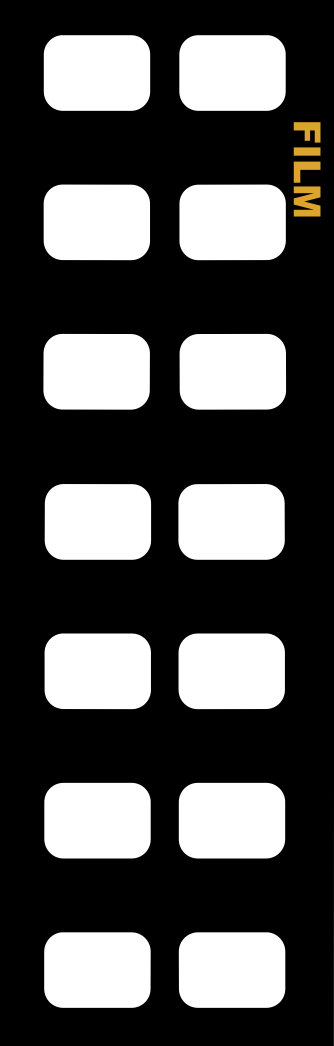
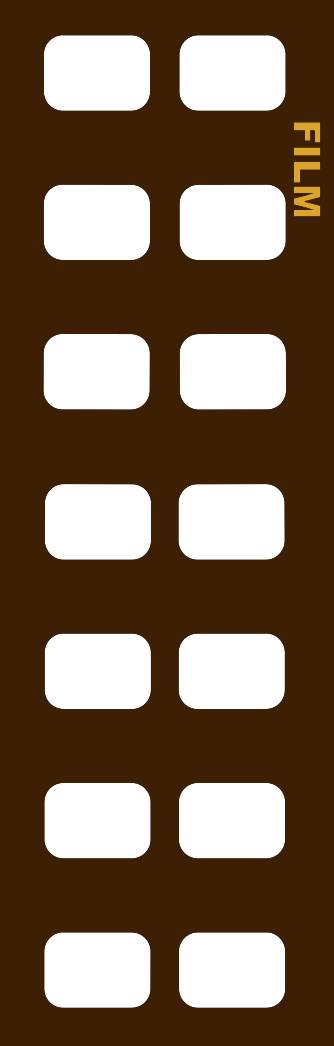
Changed some colours

diff --git a/rehash.html b/rehash.html
@@ -14,6 +14,7 @@
 	<div id="ig-root"></div>
   <div class="container">
     <h1>What story do you have to tell?</h1>
+    <h2>Enter your Instagram User names with no "@" symbol and spaces between."</h2>
     {{> signup}}
   </div>
 </body>
@@ -32,7 +33,7 @@
   <div class="" id="results">
     <h2>{{usernames}}</h2>
     
-    <div class="col-sm-8 col-sm-offset-2" id="film">
+    <div class="col-xs-8 col-xs-offset-2" id="film">
       {{#each images}}
         <div class='InstFrame'>  
           <img class="img-responsive img-rounded" src="{{url}}"/>
@@ -45,7 +46,7 @@
         </div>  
     	{{/each}}
     </div>
-    <div class="col-sm-8 col-sm-offset-2" id="canBox">
+    <div class="col-xs-8 col-xs-offset-2" id="canBox">
       <div id="can">
         <div id="leftcap"></div>
         <div id="text">

diff --git a/rehash.css b/rehash.css
@@ -1,3 +1,7 @@
+body {
+  background: #EFDFBD;
+}
+
 /*FILM STYLING*/
 img #film{
   max-width: 100%;
@@ -46,14 +50,26 @@ div.caption {
     bottom: 0px;
     left: 0px;  
     width: 100%;  
-    background-color: rgba(0,0,0,.75);    
+    background-color: rgba(221,164,45,.75);    
     color: white;  
+    border-bottom-left-radius: 6px;
+    border-bottom-right-radius: 6px;
 }  
 
 p.captionContent{   
     padding: 10px;  
     margin: 0px;
     text-align: right;  
+}  
+
+#film .captionContent a {   
+    color: white;  
+    text-decoration: underline;
+}  
+
+#film .captionContent a:hover {   
+    color: whitesmoke; 
+
 }  
 
 
